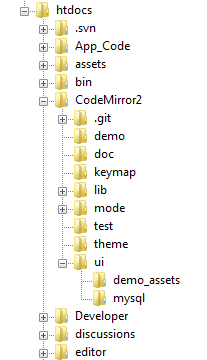
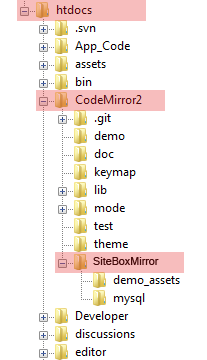
Update docs to reflect new folder structure, recompile jquery.SiteBoxMirror.standalone.min.js

Changed region(s): [[0.058, 0.0, 0.7246, 0.0611], [0.2609, 0.7028, 0.8986, 0.7639], [0.1739, 0.2444, 0.8116, 0.3056]]

diff --git a/jquery.SiteBoxMirror.standalone.min.js b/jquery.SiteBoxMirror.standalone.min.js
@@ -1,7 +1,7 @@
 
-// /CodeMirror2/ui/jquery.SiteBoxMirror.js
-(function(a){var k={init:function(u){var v=a.extend({},a.fn.SiteBoxMIRROR.mirror,u);j();return this.each(function(w,x){var y=x.tagName;if(y.toLowerCase()!="textarea"){c(a(x).attr("id")+"("+y+") is not a textarea");return false}e(x,v)})},getCode:function(){var u="";this.each(function(w,x){var v=a(x).data("siteBoxMirror").editor;if(v){v.save();c("getCode "+a(x).attr("id"));u=u+v.getValue()}});return u},setCode:function(u){return this.each(function(w,y){var v=a(y).data("siteBoxMirror").editor;if(v){c("setCode "+a(y).attr("id"));v.setValue(u);var x="standard";if(a(y).data("siteBoxMirror").frame.hasClass("fullscreen")){x="fullscreen"}s(a(y).data("siteBoxMirror").frame,x,v)}})},destroy:function(){return this.each(function(w,x){var v=a(x).data("siteBoxMirror").editor;if(v){v.save();var u=a(x).next();u.remove();a(x).parent().find("label[for='"+a(x).attr("id")+"']").each(function(y,z){a(z).show()});a(x).removeData("siteBoxMirror");a(x).show();c("destroy "+a(x).attr("id"))}})},highlight:function(u){var v=a.extend({},a.fn.SiteBoxMIRROR.mirror,u);j();return this.each(function(w,x){var y=x.tagName;if(y.toLowerCase()!="pre"){c(a(x).attr("id")+"("+y+") is not a pre");return false}c("highlight pre: "+a(x).attr("id"));a(x).addClass("cm-s-default");a(x).addClass("siteBoxMirror-highlight");CodeMirror.runMode(a(x).text(),v.mode,x)})}};a.fn.SiteBoxMIRROR=function(u){if(k[u]){return k[u].apply(this,Array.prototype.slice.call(arguments,1))}else{if(typeof u==="object"||!u){return k.init.apply(this,arguments)}else{a.error("Method "+u+" does not exist on SiteBoxMIRROR")}}};function c(u){if(window.console&&window.console.log){window.console.log(u)}}function p(){a(".siteBoxMirror-frame").each(function(x,w){var u=a(w).data("siteBoxMirror").src;var v=a(w).data("siteBoxMirror").src.data("siteBoxMirror").editor;var y="standard";if(a(w).hasClass("fullscreen")){y="fullscreen"}s(a(w),y,v)})}function d(u){var v="";if(u.root=="ui"){v=a.fn.SiteBoxMIRROR.configInfo.pluginRoot}else{v=a.fn.SiteBoxMIRROR.configInfo.codeMirrorRoot}return v+u.path}function e(B,C){c("SiteBoxMirror.initMIRROR()"+a(B).attr("id"));var w=a("<div></div>");w.attr("class","siteBoxMirror-frame");var y=a("<div></div>");y.attr("class","siteBoxMirror-uibar");var v=a("<div></div>");v.attr("class","siteBoxMirror-buttonbar");for(var z in a.fn.SiteBoxMIRROR.buttons){var u=a("<img />");u.attr("src",d(a.fn.SiteBoxMIRROR.buttons[z].icon));u.attr("alt",z);u.attr("title",a.fn.SiteBoxMIRROR.buttons[z].title);u.attr("class","siteBoxMirror-button");v.append(u)}y.append(v);var x=a("<div>&nbsp;</div>");x.attr("class","siteBoxMirror-titlebar");a(B).parent().find("label[for='"+a(B).attr("id")+"']").each(function(D,E){a(E).hide();x.text(a(E).text())});y.append(x);w.append(y);$clearFloat=a("<div></div>");$clearFloat.attr("class","siteBoxMirror-clearFloat");w.append($clearFloat);w.insertAfter(a(B));var A=CodeMirror.fromTextArea(B,C);w.append(a(A.getWrapperElement()));y.find(".siteBoxMirror-button").each(function(E,D){a(D).click(function(F){a.fn.SiteBoxMIRROR.buttons[a(D).attr("alt")].action(a(D),A,F);return false})});a(B).data("siteBoxMirror",{editor:A,frame:w});w.data("siteBoxMirror",{src:a(B)});A.refresh()}function s(v,y,x){var u=a(v.find("div.CodeMirror").get(0));u.hide();if(y=="fullscreen"){var w=a(v.find("div.siteBoxMirror-uibar").get(0));v.find(".CodeMirror-scroll").each(function(z,A){a(A).removeAttr("style");var B=a(window).width();a(A).width(B);a(A).height(a(window).height()-w.height()-10)})}else{v.find(".CodeMirror-scroll").each(function(z,A){var B=v.parent().width()-5;a(A).removeAttr("style");a(A).width(B)})}u.show();x.refresh()}function l(u,y,x){var A=440;var z=120;var v=[u.offset().left-A,u.offset().top-a(window).scrollTop()];a("#mirrorSearch").dialog({title:"search",width:A,height:z,autoOpen:true,resizable:true,position:v,open:function(B,C){a("#mirrorSearch").data("editorInstance",y);var w=a("#ui-dialog-title-mirrorSearch").next(".ui-dialog-titlebar-close");w.attr("href","javascript:return false;")},close:function(){CodeMirror.commands.uiClearSearch(y);y.setSelection(y.getCursor());y.focus();a("#mirrorSearch").removeData("editorInstance");return false}})}function n(u,w,v){var z=w.getCursor(true)["line"];var x=w.getCursor(false)["line"];for(var y=z;y<=x;y++){w.indentLine(y)}}function m(u,w,v){var y=w.lineCount();for(var x=0;x<y;x++){w.indentLine(x)}}function t(u){a("body").children().each(function(v,w){if(u){a(w).removeClass("siteBoxMirror-hidden")}else{a(w).addClass("siteBoxMirror-hidden")}})}function o(u,x,w){var v=u.parent().parent().parent();if(v.hasClass("fullscreen")){v.removeClass("fullscreen");t(true);v.insertAfter(a(x.getTextArea()));s(v,"standard",x)}else{v.addClass("fullscreen");t(false);a("body").append(v);s(v,"fullscreen",x)}x.focus()}var b=false;var f=false;var r=false;var q=false;var i=false;function j(){if(i){return}if(!b){g();b=true}if(!f){h();f=true}if(!r){a.ajax({type:"POST",url:d(a.fn.SiteBoxMIRROR.configInfo.pluginSearchUrl),success:function(u,v){a("body").append(u)},dataType:"html"});r=true}if(!q){a(window).bind("resize",p);q=true}i=true}function h(){if(typeof window.CodeMirror!="undefined"){c("codemirror detected autoload cancelled");return}jQuery.ajaxSetup({cache:true});for(var u in a.fn.SiteBoxMIRROR.jsLib){var v=d(a.fn.SiteBoxMIRROR.jsLib[u]);a("head").append("<script type='text/javascript' src='"+v+"'></script>");c("Script "+v+" appended to document head")}}function g(){for(var u in a.fn.SiteBoxMIRROR.cssLib){var v=d(a.fn.SiteBoxMIRROR.cssLib[u]);if(a("link[href='"+v+"']").length==0){a("head").append("<link type='text/css' title='"+u+"' rel='stylesheet' href='"+v+"'/>");c("Style "+v+" appended to document head")}else{c("Style "+v+" already in document")}}}a.fn.SiteBoxMIRROR.SetConfig=function(u){if(u.mirror){a.extend(a.fn.SiteBoxMIRROR.mirror,u.mirror)}if(u.configInfo){a.extend(a.fn.SiteBoxMIRROR.configInfo,u.configInfo)}if(u.cssLib){a.extend(a.fn.SiteBoxMIRROR.cssLib,u.cssLib)}if(u.jsLib){a.extend(a.fn.SiteBoxMIRROR.jsLib,u.jsLib)}if(u.modes){a.extend(a.fn.SiteBoxMIRROR.modes,u.modes)}if(u.buttons){a.extend(a.fn.SiteBoxMIRROR.buttons,u.buttons)}};a.fn.SiteBoxMIRROR.GetConfig=function(v){var w={mirror:a.fn.SiteBoxMIRROR.mirror,configInfo:a.fn.SiteBoxMIRROR.configInfo,cssLib:a.fn.SiteBoxMIRROR.cssLib,jsLib:a.fn.SiteBoxMIRROR.jsLib,modes:a.fn.SiteBoxMIRROR.modes,buttons:a.fn.SiteBoxMIRROR.buttons};if(v.toLowerCase()=="json"){try{return JSON.stringify(w,null,2)}catch(u){return w}}else{return w}};a.fn.SiteBoxMIRROR.GetSourceList=function(){var v=d(a.fn.SiteBoxMIRROR.configInfo.pluginFileName);for(var u in a.fn.SiteBoxMIRROR.jsLib){v+=","+d(a.fn.SiteBoxMIRROR.jsLib[u])}return v};a.fn.SiteBoxMIRROR.mirror={mode:"text/html",tabSize:2,lineNumbers:true};a.fn.SiteBoxMIRROR.configInfo={codeMirrorRoot:"/CodeMirror2/",pluginRoot:"/CodeMirror2/ui/",pluginFileName:{root:"ui",path:"jquery.SiteBoxMirror.js"},pluginSearchUrl:{root:"ui",path:"search.aspx"}};a.fn.SiteBoxMIRROR.cssLib={ui:{root:"ui",path:"ui.css"}};a.fn.SiteBoxMIRROR.jsLib={codemirror:{root:"cm",path:"lib/codemirror.js"},searchcursor:{root:"cm",path:"lib/util/searchcursor.js"},search:{root:"ui",path:"search.js"},highlight:{root:"cm",path:"lib/util/runmode.js"},css:{root:"cm",path:"mode/css/css.js"},javascript:{root:"cm",path:"mode/javascript/javascript.js"},xml:{root:"cm",path:"mode/xml/xml.js"},htmlmixed:{root:"cm",path:"mode/htmlmixed/htmlmixed.js"},xmlpure:{root:"cm",path:"mode/xmlpure/xmlpure.js"},mysql:{root:"ui",path:"mysql/mysql.js"}};a.fn.SiteBoxMIRROR.modes={css:"text/css",javascript:"text/javascript",htmlmixed:"text/html",xmlpure:"application/xml",mysql:"text/x-mysql"};a.fn.SiteBoxMIRROR.buttons={find:{icon:{root:"ui",path:"find.png"},title:"find",action:function(u,w,v){l(u,w,v)}},indentSelected:{icon:{root:"ui",path:"script_code.png"},title:"indent selected",action:function(u,w,v){n(u,w,v)}},indentDocument:{icon:{root:"ui",path:"script_code_red.png"},title:"indent document",action:function(u,w,v){m(u,w,v)}},fullScreen:{icon:{root:"ui",path:"monitor_go.png"},title:"toggle fullscreen",action:function(u,w,v){o(u,w,v)}}}})(jQuery);
-// end /CodeMirror2/ui/jquery.SiteBoxMirror.js
+// /CodeMirror2/SiteBoxMirror/jquery.SiteBoxMirror.js
+(function(a){var k={init:function(u){var v=a.extend({},a.fn.SiteBoxMIRROR.mirror,u);j();return this.each(function(w,x){var y=x.tagName;if(y.toLowerCase()!="textarea"){c(a(x).attr("id")+"("+y+") is not a textarea");return false}e(x,v)})},getCode:function(){var u="";this.each(function(w,x){var v=a(x).data("siteBoxMirror").editor;if(v){v.save();c("getCode "+a(x).attr("id"));u=u+v.getValue()}});return u},setCode:function(u){return this.each(function(w,y){var v=a(y).data("siteBoxMirror").editor;if(v){c("setCode "+a(y).attr("id"));v.setValue(u);var x="standard";if(a(y).data("siteBoxMirror").frame.hasClass("fullscreen")){x="fullscreen"}s(a(y).data("siteBoxMirror").frame,x,v)}})},destroy:function(){return this.each(function(w,x){var v=a(x).data("siteBoxMirror").editor;if(v){v.save();var u=a(x).next();u.remove();a(x).parent().find("label[for='"+a(x).attr("id")+"']").each(function(y,z){a(z).show()});a(x).removeData("siteBoxMirror");a(x).show();c("destroy "+a(x).attr("id"))}})},highlight:function(u){var v=a.extend({},a.fn.SiteBoxMIRROR.mirror,u);j();return this.each(function(w,x){var y=x.tagName;if(y.toLowerCase()!="pre"){c(a(x).attr("id")+"("+y+") is not a pre");return false}c("highlight pre: "+a(x).attr("id"));a(x).addClass("cm-s-default");a(x).addClass("siteBoxMirror-highlight");CodeMirror.runMode(a(x).text(),v.mode,x)})}};a.fn.SiteBoxMIRROR=function(u){if(k[u]){return k[u].apply(this,Array.prototype.slice.call(arguments,1))}else{if(typeof u==="object"||!u){return k.init.apply(this,arguments)}else{a.error("Method "+u+" does not exist on SiteBoxMIRROR")}}};function c(u){if(window.console&&window.console.log){window.console.log(u)}}function p(){a(".siteBoxMirror-frame").each(function(x,w){var u=a(w).data("siteBoxMirror").src;var v=a(w).data("siteBoxMirror").src.data("siteBoxMirror").editor;var y="standard";if(a(w).hasClass("fullscreen")){y="fullscreen"}s(a(w),y,v)})}function d(u){var v="";if(u.root=="sb"){v=a.fn.SiteBoxMIRROR.configInfo.pluginRoot}else{v=a.fn.SiteBoxMIRROR.configInfo.codeMirrorRoot}return v+u.path}function e(B,C){c("SiteBoxMirror.initMIRROR()"+a(B).attr("id"));var w=a("<div></div>");w.attr("class","siteBoxMirror-frame");var y=a("<div></div>");y.attr("class","siteBoxMirror-uibar");var v=a("<div></div>");v.attr("class","siteBoxMirror-buttonbar");for(var z in a.fn.SiteBoxMIRROR.buttons){var u=a("<img />");u.attr("src",d(a.fn.SiteBoxMIRROR.buttons[z].icon));u.attr("alt",z);u.attr("title",a.fn.SiteBoxMIRROR.buttons[z].title);u.attr("class","siteBoxMirror-button");v.append(u)}y.append(v);var x=a("<div>&nbsp;</div>");x.attr("class","siteBoxMirror-titlebar");a(B).parent().find("label[for='"+a(B).attr("id")+"']").each(function(D,E){a(E).hide();x.text(a(E).text())});y.append(x);w.append(y);$clearFloat=a("<div></div>");$clearFloat.attr("class","siteBoxMirror-clearFloat");w.append($clearFloat);w.insertAfter(a(B));var A=CodeMirror.fromTextArea(B,C);w.append(a(A.getWrapperElement()));y.find(".siteBoxMirror-button").each(function(E,D){a(D).click(function(F){a.fn.SiteBoxMIRROR.buttons[a(D).attr("alt")].action(a(D),A,F);return false})});a(B).data("siteBoxMirror",{editor:A,frame:w});w.data("siteBoxMirror",{src:a(B)});A.refresh()}function s(v,y,x){var u=a(v.find("div.CodeMirror").get(0));u.hide();if(y=="fullscreen"){var w=a(v.find("div.siteBoxMirror-uibar").get(0));v.find(".CodeMirror-scroll").each(function(z,A){a(A).removeAttr("style");var B=a(window).width();a(A).width(B);a(A).height(a(window).height()-w.height()-10)})}else{v.find(".CodeMirror-scroll").each(function(z,A){var B=v.parent().width()-5;a(A).removeAttr("style");a(A).width(B)})}u.show();x.refresh()}function l(u,y,x){var A=440;var z=120;var v=[u.offset().left-A,u.offset().top-a(window).scrollTop()];a("#mirrorSearch").dialog({title:"search",width:A,height:z,autoOpen:true,resizable:true,position:v,open:function(B,C){a("#mirrorSearch").data("editorInstance",y);var w=a("#ui-dialog-title-mirrorSearch").next(".ui-dialog-titlebar-close");w.attr("href","javascript:return false;")},close:function(){CodeMirror.commands.uiClearSearch(y);y.setSelection(y.getCursor());y.focus();a("#mirrorSearch").removeData("editorInstance");return false}})}function n(u,w,v){var z=w.getCursor(true)["line"];var x=w.getCursor(false)["line"];for(var y=z;y<=x;y++){w.indentLine(y)}}function m(u,w,v){var y=w.lineCount();for(var x=0;x<y;x++){w.indentLine(x)}}function t(u){a("body").children().each(function(v,w){if(u){a(w).removeClass("siteBoxMirror-hidden")}else{a(w).addClass("siteBoxMirror-hidden")}})}function o(u,x,w){var v=u.parent().parent().parent();if(v.hasClass("fullscreen")){v.removeClass("fullscreen");t(true);v.insertAfter(a(x.getTextArea()));s(v,"standard",x)}else{v.addClass("fullscreen");t(false);a("body").append(v);s(v,"fullscreen",x)}x.focus()}var b=false;var f=false;var r=false;var q=false;var i=false;function j(){if(i){return}if(!b){g();b=true}if(!f){h();f=true}if(!r){a.ajax({type:"POST",url:d(a.fn.SiteBoxMIRROR.configInfo.pluginSearchUrl),success:function(u,v){a("body").append(u)},dataType:"html"});r=true}if(!q){a(window).bind("resize",p);q=true}i=true}function h(){if(typeof window.CodeMirror!="undefined"){c("codemirror detected autoload cancelled");return}jQuery.ajaxSetup({cache:true});for(var u in a.fn.SiteBoxMIRROR.jsLib){var v=d(a.fn.SiteBoxMIRROR.jsLib[u]);a("head").append("<script type='text/javascript' src='"+v+"'></script>");c("Script "+v+" appended to document head")}}function g(){for(var u in a.fn.SiteBoxMIRROR.cssLib){var v=d(a.fn.SiteBoxMIRROR.cssLib[u]);if(a("link[href='"+v+"']").length==0){a("head").append("<link type='text/css' title='"+u+"' rel='stylesheet' href='"+v+"'/>");c("Style "+v+" appended to document head")}else{c("Style "+v+" already in document")}}}a.fn.SiteBoxMIRROR.SetConfig=function(u){if(u.mirror){a.extend(a.fn.SiteBoxMIRROR.mirror,u.mirror)}if(u.configInfo){a.extend(a.fn.SiteBoxMIRROR.configInfo,u.configInfo)}if(u.cssLib){a.extend(a.fn.SiteBoxMIRROR.cssLib,u.cssLib)}if(u.jsLib){a.extend(a.fn.SiteBoxMIRROR.jsLib,u.jsLib)}if(u.modes){a.extend(a.fn.SiteBoxMIRROR.modes,u.modes)}if(u.buttons){a.extend(a.fn.SiteBoxMIRROR.buttons,u.buttons)}};a.fn.SiteBoxMIRROR.GetConfig=function(v){var w={mirror:a.fn.SiteBoxMIRROR.mirror,configInfo:a.fn.SiteBoxMIRROR.configInfo,cssLib:a.fn.SiteBoxMIRROR.cssLib,jsLib:a.fn.SiteBoxMIRROR.jsLib,modes:a.fn.SiteBoxMIRROR.modes,buttons:a.fn.SiteBoxMIRROR.buttons};if(v.toLowerCase()=="json"){try{return JSON.stringify(w,null,2)}catch(u){return w}}else{return w}};a.fn.SiteBoxMIRROR.GetSourceList=function(){var v=d(a.fn.SiteBoxMIRROR.configInfo.pluginFileName);for(var u in a.fn.SiteBoxMIRROR.jsLib){v+=","+d(a.fn.SiteBoxMIRROR.jsLib[u])}return v};a.fn.SiteBoxMIRROR.mirror={mode:"text/html",tabSize:2,lineNumbers:true};a.fn.SiteBoxMIRROR.configInfo={codeMirrorRoot:"/CodeMirror2/",pluginRoot:"/CodeMirror2/SiteBoxMirror/",pluginFileName:{root:"sb",path:"jquery.SiteBoxMirror.js"},pluginSearchUrl:{root:"sb",path:"search.aspx"}};a.fn.SiteBoxMIRROR.cssLib={ui:{root:"sb",path:"ui.css"}};a.fn.SiteBoxMIRROR.jsLib={codemirror:{root:"cm",path:"lib/codemirror.js"},searchcursor:{root:"cm",path:"lib/util/searchcursor.js"},search:{root:"sb",path:"search.js"},highlight:{root:"cm",path:"lib/util/runmode.js"},css:{root:"cm",path:"mode/css/css.js"},javascript:{root:"cm",path:"mode/javascript/javascript.js"},xml:{root:"cm",path:"mode/xml/xml.js"},htmlmixed:{root:"cm",path:"mode/htmlmixed/htmlmixed.js"},xmlpure:{root:"cm",path:"mode/xmlpure/xmlpure.js"},mysql:{root:"sb",path:"mysql/mysql.js"}};a.fn.SiteBoxMIRROR.modes={css:"text/css",javascript:"text/javascript",htmlmixed:"text/html",xmlpure:"application/xml",mysql:"text/x-mysql"};a.fn.SiteBoxMIRROR.buttons={find:{icon:{root:"sb",path:"find.png"},title:"find",action:function(u,w,v){l(u,w,v)}},indentSelected:{icon:{root:"sb",path:"script_code.png"},title:"indent selected",action:function(u,w,v){n(u,w,v)}},indentDocument:{icon:{root:"sb",path:"script_code_red.png"},title:"indent document",action:function(u,w,v){m(u,w,v)}},fullScreen:{icon:{root:"sb",path:"monitor_go.png"},title:"toggle fullscreen",action:function(u,w,v){o(u,w,v)}}}})(jQuery);
+// end /CodeMirror2/SiteBoxMirror/jquery.SiteBoxMirror.js
 
 
 // /CodeMirror2/lib/codemirror.js
@@ -14,9 +14,9 @@ var CodeMirror=(function(){function d(bK,aN){var bE={},av=d.defaults;for(var bD 
 // end /CodeMirror2/lib/util/searchcursor.js
 
 
-// /CodeMirror2/ui/search.js
+// /CodeMirror2/SiteBoxMirror/search.js
 (function(){function h(){this.posFrom=this.posTo=this.query=null;this.marked=[]}function d(j){return j._searchState||(j._searchState=new h())}function e(k){var j=k.match(/^\/(.*)\/$/);return j?new RegExp(j[1]):k}function b(j,l,k){var m=d(j);if(m.query){return c(j,l)}j.operation(function(){if(!k||m.query){return}m.query=e(k);if(j.lineCount()<2000){for(var n=j.getSearchCursor(k);n.findNext();){m.marked.push(j.markText(n.from(),n.to(),"CodeMirror-searching"))}}m.posFrom=m.posTo=j.getCursor();c(j,l)})}function c(j,k){j.operation(function(){var m=d(j);var l=j.getSearchCursor(m.query,k?m.posFrom:m.posTo);if(!l.find(k)){l=j.getSearchCursor(m.query,k?{line:j.lineCount()-1}:{line:0,ch:0});if(!l.find(k)){return}}j.setSelection(l.from(),l.to());m.posFrom=l.from();m.posTo=l.to()})}function a(j){j.operation(function(){var l=d(j);if(!l.query){return}l.query=null;for(var k=0;k<l.marked.length;++k){l.marked[k].clear()}l.marked.length=0})}function f(j,k,l){if(!k){return}k=e(k);j.operation(function(){for(var m=j.getSearchCursor(k);m.findNext();){if(typeof k!="string"){var n=j.getRange(m.from(),m.to()).match(k);m.replace(l.replace(/\$(\d)/,function(p,o){return n[o]}))}else{m.replace(l)}}})}function g(j,l,p){var o=d(j);var n=j.getSelection();var m=j.getRange(o.posFrom,o.posTo);if(n!=m){return}if(n==""){return}var k=e(l);if(typeof k!="string"){if(!k.test(n)){return}}else{if(k!=n){return}}j.replaceSelection(p)}function i(k,j){var m=d(k);var l=m.marked.length;if(l==0){var n=k.getRange(m.posFrom,m.posTo);if(n==""||j){k.setSelection(k.getCursor())}else{l=1}}$("#mirrorSearch .foundCount").val(l)}CodeMirror.commands.uiFind=function(j,k){j.focus();a(j);b(j,false,k);i(j,false)};CodeMirror.commands.uiClearSearch=function(j){j.focus();a(j);i(j,true)};CodeMirror.commands.uiReplaceSelection=function(j,k,l){j.focus();g(j,k,l);a(j);b(j,false,k);i(j,false)};CodeMirror.commands.uiReplaceAll=function(j,k,l){j.focus();f(j,k,l);a(j);i(j,true)}})();
-// end /CodeMirror2/ui/search.js
+// end /CodeMirror2/SiteBoxMirror/search.js
 
 
 // /CodeMirror2/lib/util/runmode.js
@@ -49,7 +49,7 @@ CodeMirror.defineMode("xmlpure",function(b,s){var A="error";var B="comment";var 
 // end /CodeMirror2/mode/xmlpure/xmlpure.js
 
 
-// /CodeMirror2/ui/mysql/mysql.js
+// /CodeMirror2/SiteBoxMirror/mysql/mysql.js
 CodeMirror.defineMode("mysql",function(b,h){var d=b.indentUnit,f=h.keywords,c=h.functions,o=h.types,g=h.multiLineStrings;var e=/[+\-*&%=<>!?:\/|]/;function a(r,q,p){q.tokenize=p;return p(r,q)}var n;function i(q,p){n=q;return p}function j(r,q){var p=r.next();if(p=="`"||p=='"'){return a(r,q,l(p))}else{if(p=='"'||p=="'"){return a(r,q,m(p))}else{if(/[\(\),;\.]/.test(p)){return i(p)}else{if(/\d/.test(p)){r.eatWhile(/[\w\.]/);return i("number","number")}else{if(p=="/"){if(r.eat("*")){return a(r,q,k)}else{r.eatWhile(e);return i("operator","operator")}}else{if(p=="#"){r.skipToEnd();return i("comment","comment")}else{if(p=="@"){r.eatWhile(/[\w\d\$_]/);return i("word","variable")}else{if(e.test(p)){r.eatWhile(e);return i("operator","operator")}else{r.eatWhile(/[\w\$_]/);if(f&&f.propertyIsEnumerable(r.current().toLowerCase())){return i("keyword","keyword")}if(c&&c.propertyIsEnumerable(r.current().toLowerCase())){return i("keyword","builtin")}if(o&&o.propertyIsEnumerable(r.current().toLowerCase())){return i("keyword","variable-2")}return i("word","word")}}}}}}}}}function m(p){return function(u,t){var r=false,s,q=false;while((s=u.next())!=null){if(s==p&&!r){q=true;break}r=!r&&s=="\\"}if(q||!(r||g)){t.tokenize=j}return i("string","string")}}function l(p){return function(r,q){while((next=r.next())!=null){if(next==p){end=true;break}}if(end){q.tokenize=j}return i("identifier","attribute")}}function k(s,r){var q=false,p;while(p=s.next()){if(p=="/"&&q){r.tokenize=j;break}q=(p=="*")}return i("comment","comment")}return{startState:function(p){return{tokenize:j,startOfLine:true}},token:function(q,p){if(q.eatSpace()){return null}var r=p.tokenize(q,p);return r}}});(function(){function a(g){var f={},h=g.split(" ");for(var e=0;e<h.length;++e){f[h[e]]=true}return f}var c="alter auto_increment grant revoke primary key table start top transaction select update insert delete create describe from into values where join inner left natural and or in not xor like using on order group by asc desc limit offset union all as distinct set commit rollback replace view database separator if exists null truncate status show lock unique having drop procedure begin end delimiter call else leave declare temporary then engine";var b="abs acos adddate aes_encrypt aes_decrypt ascii asin atan atan2 avg benchmark bin bit_and bit_count bit_length bit_or cast ceil ceiling char_length character_length coalesce concat concat_ws connection_id conv convert cos cot count curdate current_date current_time current_timestamp current_user curtime database date_add date_format date_sub dayname dayofmonth dayofweek dayofyear decode degreesdes_encrypt des_decrypt elt encode encrypt exp export_set extract field find_in_set floor format found_rows from_days from_unixtime get_lock greatest group_unique_users hex ifnull inet_aton inet_ntoa instr interval is_free_lock isnull last_insert_id lcase least left length ln load_file locate log log2 log10 lower lpad ltrim make_set master_pos_wait max md5 mid min mod monthname now nullif oct octet_length ord password period_add period_diff pi position pow power quarter quote radians rand release_lock repeat reverse right round rpad rtrim sec_to_time session_user sha sha1 sign sin soundex space sqrt std stddev strcmp subdate substring substring_index sum sysdate system_user tan time_format time_to_sec to_days trim ucase unique_users unix_timestamp upper user version week weekday yearweek";var d="bigint binary bit blob bool char character date datetime dec decimal double enum float float4 float8 int int1 int2 int3 int4 int8 integer long longblob longtext mediumblob mediumint mediumtext middleint ncharnumeric real set smallint text time timestamp tinyblob tinyint tinytext varbinary varchar year";CodeMirror.defineMIME("text/x-mysql",{name:"mysql",keywords:a(c),functions:a(b),types:a(d)})}());
-// end /CodeMirror2/ui/mysql/mysql.js
+// end /CodeMirror2/SiteBoxMirror/mysql/mysql.js
 

diff --git a/index.html b/index.html
@@ -15,7 +15,7 @@
     <link type="text/css" rel="styleSheet" href="demo_assets/cmxform.css" /> 
     <link type="text/css" rel="styleSheet" href="demo_assets/demo_style.css" >
     
-    <link type="text/css" rel="stylesheet" href="/CodeMirror2/ui/ui.css" /> 
+    <link type="text/css" rel="stylesheet" href="/CodeMirror2/SiteBoxMirror/ui.css" /> 
     
     <!-- js -->
     <script type="text/javascript" src="https://ajax.googleapis.com/ajax/libs/jquery/1.7.0/jquery.min.js" ></script>
@@ -23,7 +23,7 @@
     <script type="text/javascript" src="https://ajax.googleapis.com/ajax/libs/jqueryui/1.8.16/jquery-ui.min.js" ></script>
     <script type="text/javascript" src="demo_assets/cmxforms.js" ></script>
     
-    <script src="jquery.SiteBoxMirror.js"></script >
+    <script src="jquery.SiteBoxMirror.standalone.min.js"></script >
     
   </head>
   <body>
@@ -47,33 +47,6 @@
       
       <p>
         See the <a href="#demo">demo</a>.
-      </p>
-      
-      <h2>Known Issues</h2>
-      <h4>Search not case insensitive if query starts with lowercase</h4>
-      <p>
-        My rewritten search extention <a href="search.js">ui/search.js</a> relies upon the original 
-        <a href="../lib/util/searchcursor.js">searchcursor.js</a> code. This code finds "Search" with a query of "search".
-      </p>
-      <h4>Resize is clunky!</h4>
-      <p>
-        The resizing of the editor scroll area has taxed me. Use a max-width on the element that contains the editors and it seems to work!
-      </p>
-      <h4>Non IIS hosts need to change the extention of the dialoug url</h4>
-      <p>
-        The plugin loads its search dialoug via an ajax post. On my IIS server the extension must be a configured script type so I have used .aspx.
-      </p>
-      <p>
-        Non IIS users can rename <a href="search.aspx">ui/search.aspx</a> to somthing more appropriate and supply 
-        the new name via config or at create time. (assuming dynamic setup) <br />
-        Alternatively you can edit the property <b>$.fn.SiteBoxMIRROR.frame.searchUrl</b> property in 
-        <a href="jquery.SiteBoxMirror.js">ui/jquery.SiteBoxMirror.js</a>
-      </p>
-      <h4>mySql mode is custom</h4>
-      <p>
-        I am using my own mysql mode that predates the one now available.<br />
-        To use the standard mysql mode change the <b>$.fn.SiteBoxMIRROR.jsLib.mysql</b> property in 
-        <a href="jquery.SiteBoxMirror.js">ui/jquery.SiteBoxMirror.js</a> or pass the new name via config or at create time. (assuming dynamic setup) 
       </p>
       
       <h2>Dependencies</h2>
@@ -109,25 +82,31 @@
         <img src="demo_assets/folder_structure.png" alt="folder structure" style="width:207; height:360;float:left"/>
         <h4>Folder structure</h4>
         <p>
-          The plugin is designed to be hosted in a sub folder of the codemirror2 tree called ui/.
+          The plugin as shipped is configured to be hosted in a sub folder of the <b>codemirror2</b> tree called <b>SiteBoxMirror</b>.
         </p>
         <p> 
-          The default installation assumes that the codemirror folder is a child of the web root as in the diagram to the left.
+          The default installation assumes that the codemirror2 folder is called <b>/codeMirror2/</b>is a child of the 
+          web root as in the diagram to the left.
         </p>
         <h4>Step 1 - Get CodeMirror2</h4>
         <p>
           Get a copy of <a href="http://codemirror.net/">CodeMirror2</a> and install it into your site.
         </p>
         <p> 
-          I suggest using a folder name of <b>CodeMirror2</b> off your web root.
+          Install into folder <b>CodeMirror2</b> off your web root.
         </p>
         <h4>Step 2 - Add SiteBoxMirror to CodeMirror tree</h4>
         <p>
-          Download <a href="SiteBoxMirror.zip">SiteBoxMirror.zip</a> and add the ui folder contained therein to the CodeMirror2 tree.
+          SiteBoxMirror is hosted on Github at <a href="https://github.com/crookasacat/SiteBoxMirror">https://github.com/crookasacat/SiteBoxMirror</a> so 
+          you can clone the repo.<br />
+          Or you can  <a href="https://github.com/crookasacat/SiteBoxMirror/zipball/master">download a zip</a> of the latest version.
+          <p>
+            Install into folder <b>SiteBoxMirror</b> off your <b>CodeMirror2</b> folder.
+          </p>
         </p>
         <h4>Step 3 - Validate Install</h4>
         <p>
-          If all is well you should be able to view a copy of this page <b>/CodeMirror2/ui/index.html</b> on your website.
+          If all is well you should be able to view a copy of this page <b>/CodeMirror2/SiteBoxMirror/index.html</b> on your website.
         </p>
 
         <br style="clear:left" />
@@ -135,7 +114,7 @@
       
       <h3>Your page requires one of the following configurations</h3>
       
-      <h4>Minimum config</h4>
+      <h4>Minimum config (all css and js lazy loaded)</h4>
       <p>
         As a bare minimum your page must include jQuery jQueryUi and the plugin file <a href="/CodeMirror2/ui/jquery.SiteBoxMirror.js">jquery.SiteBoxMirror.js</a>  
       </p>
@@ -144,39 +123,48 @@
 &lt;script type="text/javascript" src="path_to_jquery.min.js"&gt;&lt;/script&gt;
 
 &lt;script type="text/javascript" src="path_to_jquery-ui.min.js"&gt;&lt;/script&gt;
-&lt;script type="text/javascript" src="jquery.SiteBoxMirror.js"&gt;&lt;/script&gt;
+&lt;script type="text/javascript" src="/CodeMirror2/SiteBoxMirror/jquery.SiteBoxMirror.js"&gt;&lt;/script&gt;
 </pre>
       
       <p>
-        In this configuration, the plugin will attempt to load all dependant scripts and css. It will work in most browsers but might be ugly!
+        In this configuration, the plugin will lazy load all dependant scripts and css. 
+        It will work in most browsers but might be ugly under some circumstances!
       </p>
-      <h4>Better config (development)</h4>
+      <h4>Better config (lazy load js only)</h4>
       <p>
-        The plugin will work better on most browsers if you also specify the <a href="/CodeMirror2/ui/ui.css">/CodeMirror2/ui/ui.css</a> file 
+        The plugin will work better on most browsers if you also specify the 
+        <a href="/CodeMirror2/SiteBoxMirror/ui.css">/CodeMirror2/SiteBoxMirror/ui.css</a> file rather
+        than letting the plugin lazyload it.
       </p>
     <pre class="docs_htm">
 &lt;link type="text/css" href="path_to_jquery-ui.css" rel="styleSheet"/&gt;
-&lt;link type="text/css" href="/CodeMirror2/ui/ui.css" rel="styleSheet"/&gt;
+&lt;link type="text/css" href="/CodeMirror2/SiteBoxMirror//ui.css" rel="styleSheet"/&gt;
 
 &lt;script type="text/javascript" src="path_to_jquery.min.js"&gt;&lt;/script&gt;
 &lt;script type="text/javascript" src="path_to_jquery-ui.min.js"&gt;&lt;/script&gt;
-&lt;script type="text/javascript" src="jquery.SiteBoxMirror.js"&gt;&lt;/script&gt;
+&lt;script type="text/javascript" src="/CodeMirror2/SiteBoxMirror/jquery.SiteBoxMirror.js"&gt;&lt;/script&gt;
 </pre>
-      <p>In this configuration only the required javascripts are added to the document. This is the prefered configuration while developing the plugin.</p>
-      <h4>Best config (production)</h4>
+      <p>
+      In this configuration javascript dependencies are added to the document by the plugin. 
+      Using this option any changes to external scripts may require the browser cache to be cleared
+      before the changes are available to the plugin.</p>
+      <h4>Best config (scripts combined and minified)</h4>
       <p>
       Finally the best configuration is to use the standalone minified version 
       <a href="jquery.SiteBoxMirror.standalone.min.js">jquery.SiteBoxMirror.standalone.min.js</a>
       </p>
     <pre class="docs_htm">
 &lt;link type="text/css" href="path_to_jquery-ui.css" rel="styleSheet"/&gt;
-&lt;link type="text/css" href="/CodeMirror2/ui/ui.css" rel="styleSheet"/&gt;
+&lt;link type="text/css" href="/CodeMirror2/SiteBoxMirror/ui.css" rel="styleSheet"/&gt;
 
 &lt;script type="text/javascript" src="path_to_jquery.min.js"&gt;&lt;/script&gt;
 &lt;script type="text/javascript" src="path_to_jquery-ui.min.js"&gt;&lt;/script&gt;
-&lt;script type="text/javascript" src="jquery.SiteBoxMirror.standalone.min.js"&gt;&lt;/script&gt;
+&lt;script type="text/javascript" src="/CodeMirror2/SiteBoxMirror/jquery.SiteBoxMirror.standalone.min.js"&gt;&lt;/script&gt;
 </pre>
-      <p>In this configuration all dependant scripts are included in the plug in so no lazy loading is required.</p>      
+      <p>In this configuration all dependant scripts are included in the plug in so no lazy loading is required, 
+      however you must remember to update the component scripts to reflect any external changes if you want to be
+      using the most up to date code from codemirror.
+      </p>      
       
       <h2>Usage</h2>
       
@@ -214,12 +202,24 @@ $("textarea.cmui").SiteBoxMIRROR("destroy");</pre>
       <p>Use this to set plugin defaults. Properties set this way affect all instances created after the setter is executed.
       <pre class="docs_js">
 $.fn.SiteBoxMIRROR.SetConfig({
+  // set codemirror defaults to use
   mirror : {
-    mode         : "text/html",
-    tabSize      : 2, 
-    lineNumbers  : true
+    mode           : "text/html",
+    tabSize        : 2, 
+    lineNumbers    : true
+  },
+  // set sql mode to standard parser
+  jsLib : {
+    mysql          : { root : "cm", path : "mode/mysql/mysql.js" }  //cm is alias for codeMirrorRoot in url objects
+  },
+  // set search url, pluginRoot and codeMirrorRoot to alternate values
+  configInfo : {
+    codeMirrorRoot : "/cm/",
+    pluginRoot       "/cm/ui/"
+    searchUrl      : { root : "sb", path : "search.php" }  //sb is alias for pluginRoot in url objects
   }
-});</pre>
+});
+</pre>
 
       <h4>$.fn.SiteBoxMIRROR.GetConfig(format)</h4>
       <p>Use this to get plugin defaults. The config object is returned as an object or JSON depending on format.
@@ -227,7 +227,7 @@ $.fn.SiteBoxMIRROR.SetConfig({
 $("#config").text($.fn.SiteBoxMIRROR.GetConfig("json"));
 
 $("#config").text($.fn.SiteBoxMIRROR.GetConfig("object"));</pre>
-      <h4>jquery.SiteBoxMirror.standalone.min.js Config (json)</h4>
+      <h4>jquery.SiteBoxMirror.js Standard Config (json)</h4>
       <pre id="config"></pre>
       
       <h2>Compression helper</h2>      
@@ -237,8 +237,38 @@ $("#config").text($.fn.SiteBoxMIRROR.GetConfig("object"));</pre>
         This will NOT work on your server, unless you are using siteBox, but it may help with your own solution.<br />
         see <a href="http://yuicompressor.codeplex.com/">http://yuicompressor.codeplex.com/</a>
       </p>
-    </div>
     
+      <h2>Known Issues</h2>
+      <h4>Search not case sensitive if query starts with lowercase</h4>
+      <p>
+        My rewritten search extention <a href="search.js">search.js</a> relies upon the original 
+        <a href="../lib/util/searchcursor.js">searchcursor.js</a> code. This code finds "Search" with a query of "search" but not "seaRch".
+      </p>
+      <h4>Resize is clunky!</h4>
+      <p>
+        The resizing of the editor scroll area has taxed me. Use a max-width on the element that contains the editors and it seems to work!<br />
+        Consider this a work in progress!
+      </p>
+      <h4>Non IIS hosts need to change the extention of the dialoug url</h4>
+      <p>
+        The plugin loads its search dialoug via an ajax post. On my IIS server the extension must be a configured script type so I have used .aspx.
+      </p>
+      <p>
+        Non IIS users can rename <a href="search.aspx">search.aspx</a> to somthing more appropriate and supply 
+        the new name via config. This option will work with jquery.SiteBoxMirror.js and jquery.SiteBoxMirror.standalone.min.js
+        because the dialoug itself is not contained in the minimized package, but loaded via ajax at config time.<br />
+        Alternatively you can edit the property <b>$.fn.SiteBoxMIRROR.configInfo.searchUrl</b> property in 
+        <a href="jquery.SiteBoxMirror.js">jquery.SiteBoxMirror.js</a>
+      </p>
+      <h4>mySql mode is custom</h4>
+      <p>
+        I am using my own mysql mode that predates the one now available.<br />
+        To use the standard mysql mode use the config option or change the <b>$.fn.SiteBoxMIRROR.jsLib.mysql</b> property in 
+        <a href="jquery.SiteBoxMirror.js">jquery.SiteBoxMirror.js</a>. NOTE You can only use alternative modes when
+         using the dynamic mode (jquery.SiteBoxMirror.js) If you want to use the standard mysql mode with
+         jquery.SiteBoxMirror.standalone.min.js you will have to replace the mysql mode in the script itself.
+      </p>
+    </div>
     <script type="text/javascript">
         $("pre.docs_htm").SiteBoxMIRROR("highlight", { mode: "text/html" });
         $("pre.docs_js").SiteBoxMIRROR("highlight", { mode: "text/javascript" });
